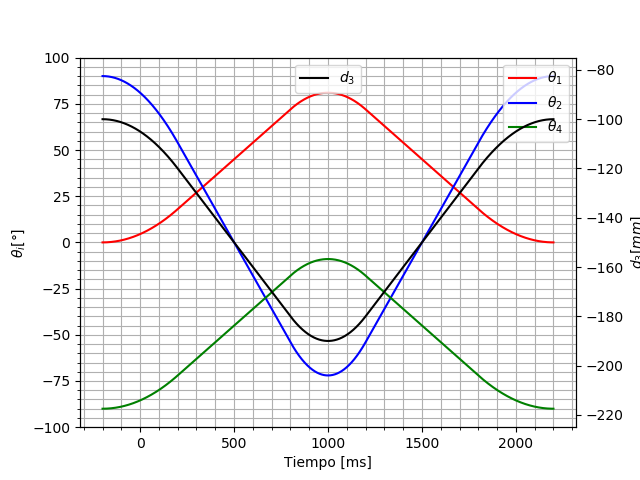
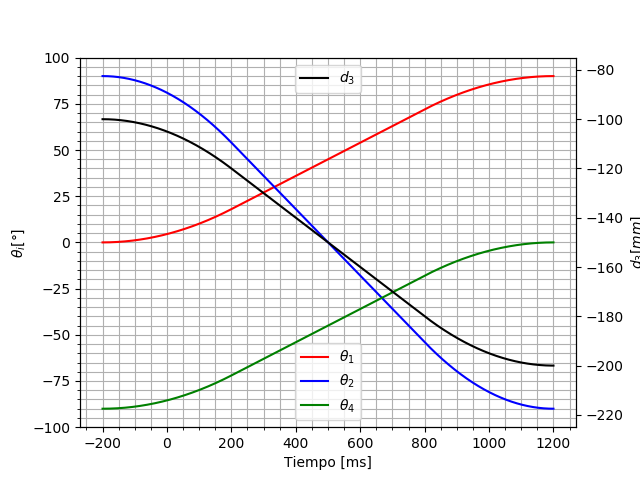
Se escribió la parte del programa que grafica la trayectoria de la TCP pero falta todavía que grafique las flechas de velocidad

diff --git a/tp4.py b/tp4.py
@@ -13,16 +13,17 @@ INFO IMPORTANTE
 
 """
 # In[]
-
+import numpy as np
 from numpy import *
 import matplotlib.pyplot as plt
-from tp1_modificado import *
+#from tp1_modificado import *
 
 # In[]
-
 a1 = 200
 a2 = 200
 a = 200 # Como a1 = a2 se define a = a1 = a2
+
+tol = 1e-6
 
 # In[]
 # Defino una función que me devuelve la matriz homogenea que representa 
@@ -31,9 +32,6 @@ a = 200 # Como a1 = a2 se define a = a1 = a2
 # ángulos deben estar en radianes
 def DH_hom_mat(theta,d,a,alpha):
     
-    # Se ponen en rango [-180,180)los ángulos
-    #theta = get_in_range(theta)
-    #alpha = get_in_range(alpha)
     
     
     R = array(
@@ -151,18 +149,20 @@ vmax = array([v1max,v2max,v3max,v4max])
 def gen_tray(POSE_vec,td_vec,dt):
     """
     Función para graficar:
-        Obtiene los vectores que son los datos de la trayectoria y los grafica
+        Obtiene los vectores de gen_tray_POSE que son los datos de la trayectoria y los grafica
     """
     
-    cant_pose = len(POSE_vec[:,0])
-    var_art_pos = zeros((4,cant_pose))
+    cant_pose = len(POSE_vec[:,0]) # cantidad de pose's ingresadas
+    var_art_pos = zeros((4,cant_pose)) # Variable para guardar el resultado del problema inverso para cada pose
+    
+    # Cálculo del problema inverso para cada pose
     for id,POSE in enumerate(POSE_vec):
         var_art_pos[:,id] =  resolv_inv_scara(*POSE)
     
     
-    
+    # Cálculo de trayectoria
     var_art, var_art_der, T_vec = gen_tray_POSE(var_art_pos,td_vec,dt)
-    t = arange(-tacc,np.sum(T_vec) +tacc, dt)
+    t = arange(-tacc,np.sum(T_vec) +tacc, dt) # Variable de tiempo. Empieza de -tacc, y termina en la suma de todos los tiempos de trayectoria + tacc
     
     
     # Gráficos de las variables articulares
@@ -218,6 +218,58 @@ def gen_tray(POSE_vec,td_vec,dt):
     
     fig_v.savefig("var_art_der.png")
     
+    
+    
+    #############################################################
+    # Gráficos de la posición de la TCP en la terna 0 en el plano
+    #############################################################
+    
+    TCP_x = array([])
+    TCP_y = array([])
+    
+    # Variables para graficar la velocidad
+    cant_flechas = 10
+    X = zeros( int( len(var_art[0,:])/cant_flechas) )
+    Y = zeros( int( len(var_art[0,:])/cant_flechas) )
+    V_var_art = zeros(4).reshape(4,1)
+    V_x = zeros(len(X))
+    V_y = zeros(len(Y))
+    
+    for i in arange(len(var_art.T)):
+        j= 0
+        A,g = prob_dir_scara(*var_art[:,i])
+        TCP_x = append(TCP_x,A[0,3])
+        TCP_y = append(TCP_y,A[1,3])
+        if not i%len(X):
+            X[j] = TCP_x[-1]
+            Y[j] = TCP_y[-1]
+            V_var_art = var_art_der[:,i].reshape(4,1)
+            #print(shape(calc_Jac_ter0(*var_art[:,i]) ))
+            #print(shape(V_var_art))
+            V_x[j] = dot( calc_Jac_ter0(*var_art[:,i]),V_var_art )[0] 
+            V_y[j] = dot( calc_Jac_ter0(*var_art[:,i]),V_var_art )[1]
+            j = j+1
+        
+    #print(var_art[:,0])    
+    #print(prob_dir_scara(*var_art[:,0]))
+    #print(var_art[:,-1])
+    #print(prob_dir_scara(*var_art[:,-1]))
+    #print(var_art[:,-1000])
+    #print(prob_dir_scara(*var_art[:,-1000]))
+    
+    # Variables para graficar la velocidad sobre la trayectoria
+    
+    fig,ax = plt.subplots()
+    ax.plot(TCP_x,TCP_y)
+    ax.set_xlabel(r"$TCP_x$")
+    ax.set_ylabel(r"$TCP_y$")    
+    ax.grid()
+    
+    fix,ax = plt.subplots()
+    print(V_x)
+    print(V_y)
+    ax.quiver(X, Y, V_x, V_y)
+    
 # In[]
     
 def gen_tray_POSE(var_art_pos,td,dt):
@@ -227,7 +279,7 @@ def gen_tray_POSE(var_art_pos,td,dt):
     Función principal: calcula los vectores que son los valores de las variables articulares durante las trayectorias
     Debe devolver:  - La matriz con los valores de las variables articulares
                     - La matriz con los valores de las derivadas de las variables articulares
-                    - vector de los valores de T en cada tramos (esto es para graficar después)
+                    - vector de los valores de T (tiempo de trayectoria) en cada tramo (esto es para graficar después)
     """
     
     # var_art_pos es vector de los valores a donde quiere ir las variables articuladas
@@ -266,11 +318,11 @@ def gen_tray_POSE(var_art_pos,td,dt):
         DA = A-B
         DC = C-B
         
-        # Calculo del tiempo en que se mueven los ejes
+        # Cálculo del tiempo en que se mueven los ejes
         tmax = amax(DC.reshape(1,4)/vmax)
         T = amax([2*tacc,tmax,td[i]])
         
-        # Calculo de las variables articulares en la zona 1
+        # Cálculo de las variables articulares en la zona 1
         t = arange(-tacc,tacc,dt)
         var_art_zona1 = DC*((t+tacc)**2)/(4*T*tacc) + DA*((t-tacc)**2)/(4*tacc**2) + B
         var_art_der_zona1 = DC*(t + tacc)/ (2*T*tacc) + DA*(t-tacc)/(2*tacc**2)
@@ -318,8 +370,19 @@ def gen_tray_POSE(var_art_pos,td,dt):
     # Se lo agrego al vector de las variables articulares
     var_art = concatenate((var_art,var_art_zona1),axis=1)
     var_art_der = concatenate((var_art_der,var_art_der_zona1),axis=1)
+
     return var_art, var_art_der, T_vec
     
+
+# In[]
+"""
+Cálculo del jacobiano del robot scara en la terna 0
+"""    
+
+def calc_Jac_ter0(t1,t2,d3,t4):
+    J = array([[-a2*sin(t1+t2) - a1*sin(t1),    -a2*sin(t1+t2),  0 ,    0],
+               [a2*cos(t1+t2) + a1*cos(t1),    a2*cos(t1+t2),  0,  0],
+               [0,  0,  1,  0],
+               [1,  1,  0,  1] ])
+    return J    
     
-
-

diff --git a/main.py b/main.py
@@ -10,8 +10,8 @@ Created on Fri Nov 22 21:58:07 2019
 def main():
     POSE1 = array([200,200,-100,0,1])
     POSE2 = array([200,200,-200,0,-1])
-    POSE_vec = array([POSE1,POSE2, POSE1])
-    td = array([1,1])
+    POSE_vec = array([POSE1,POSE2,])
+    td = array([1])
     dt = 0.1 # en mm
     gen_tray(POSE_vec,td,dt)
 
